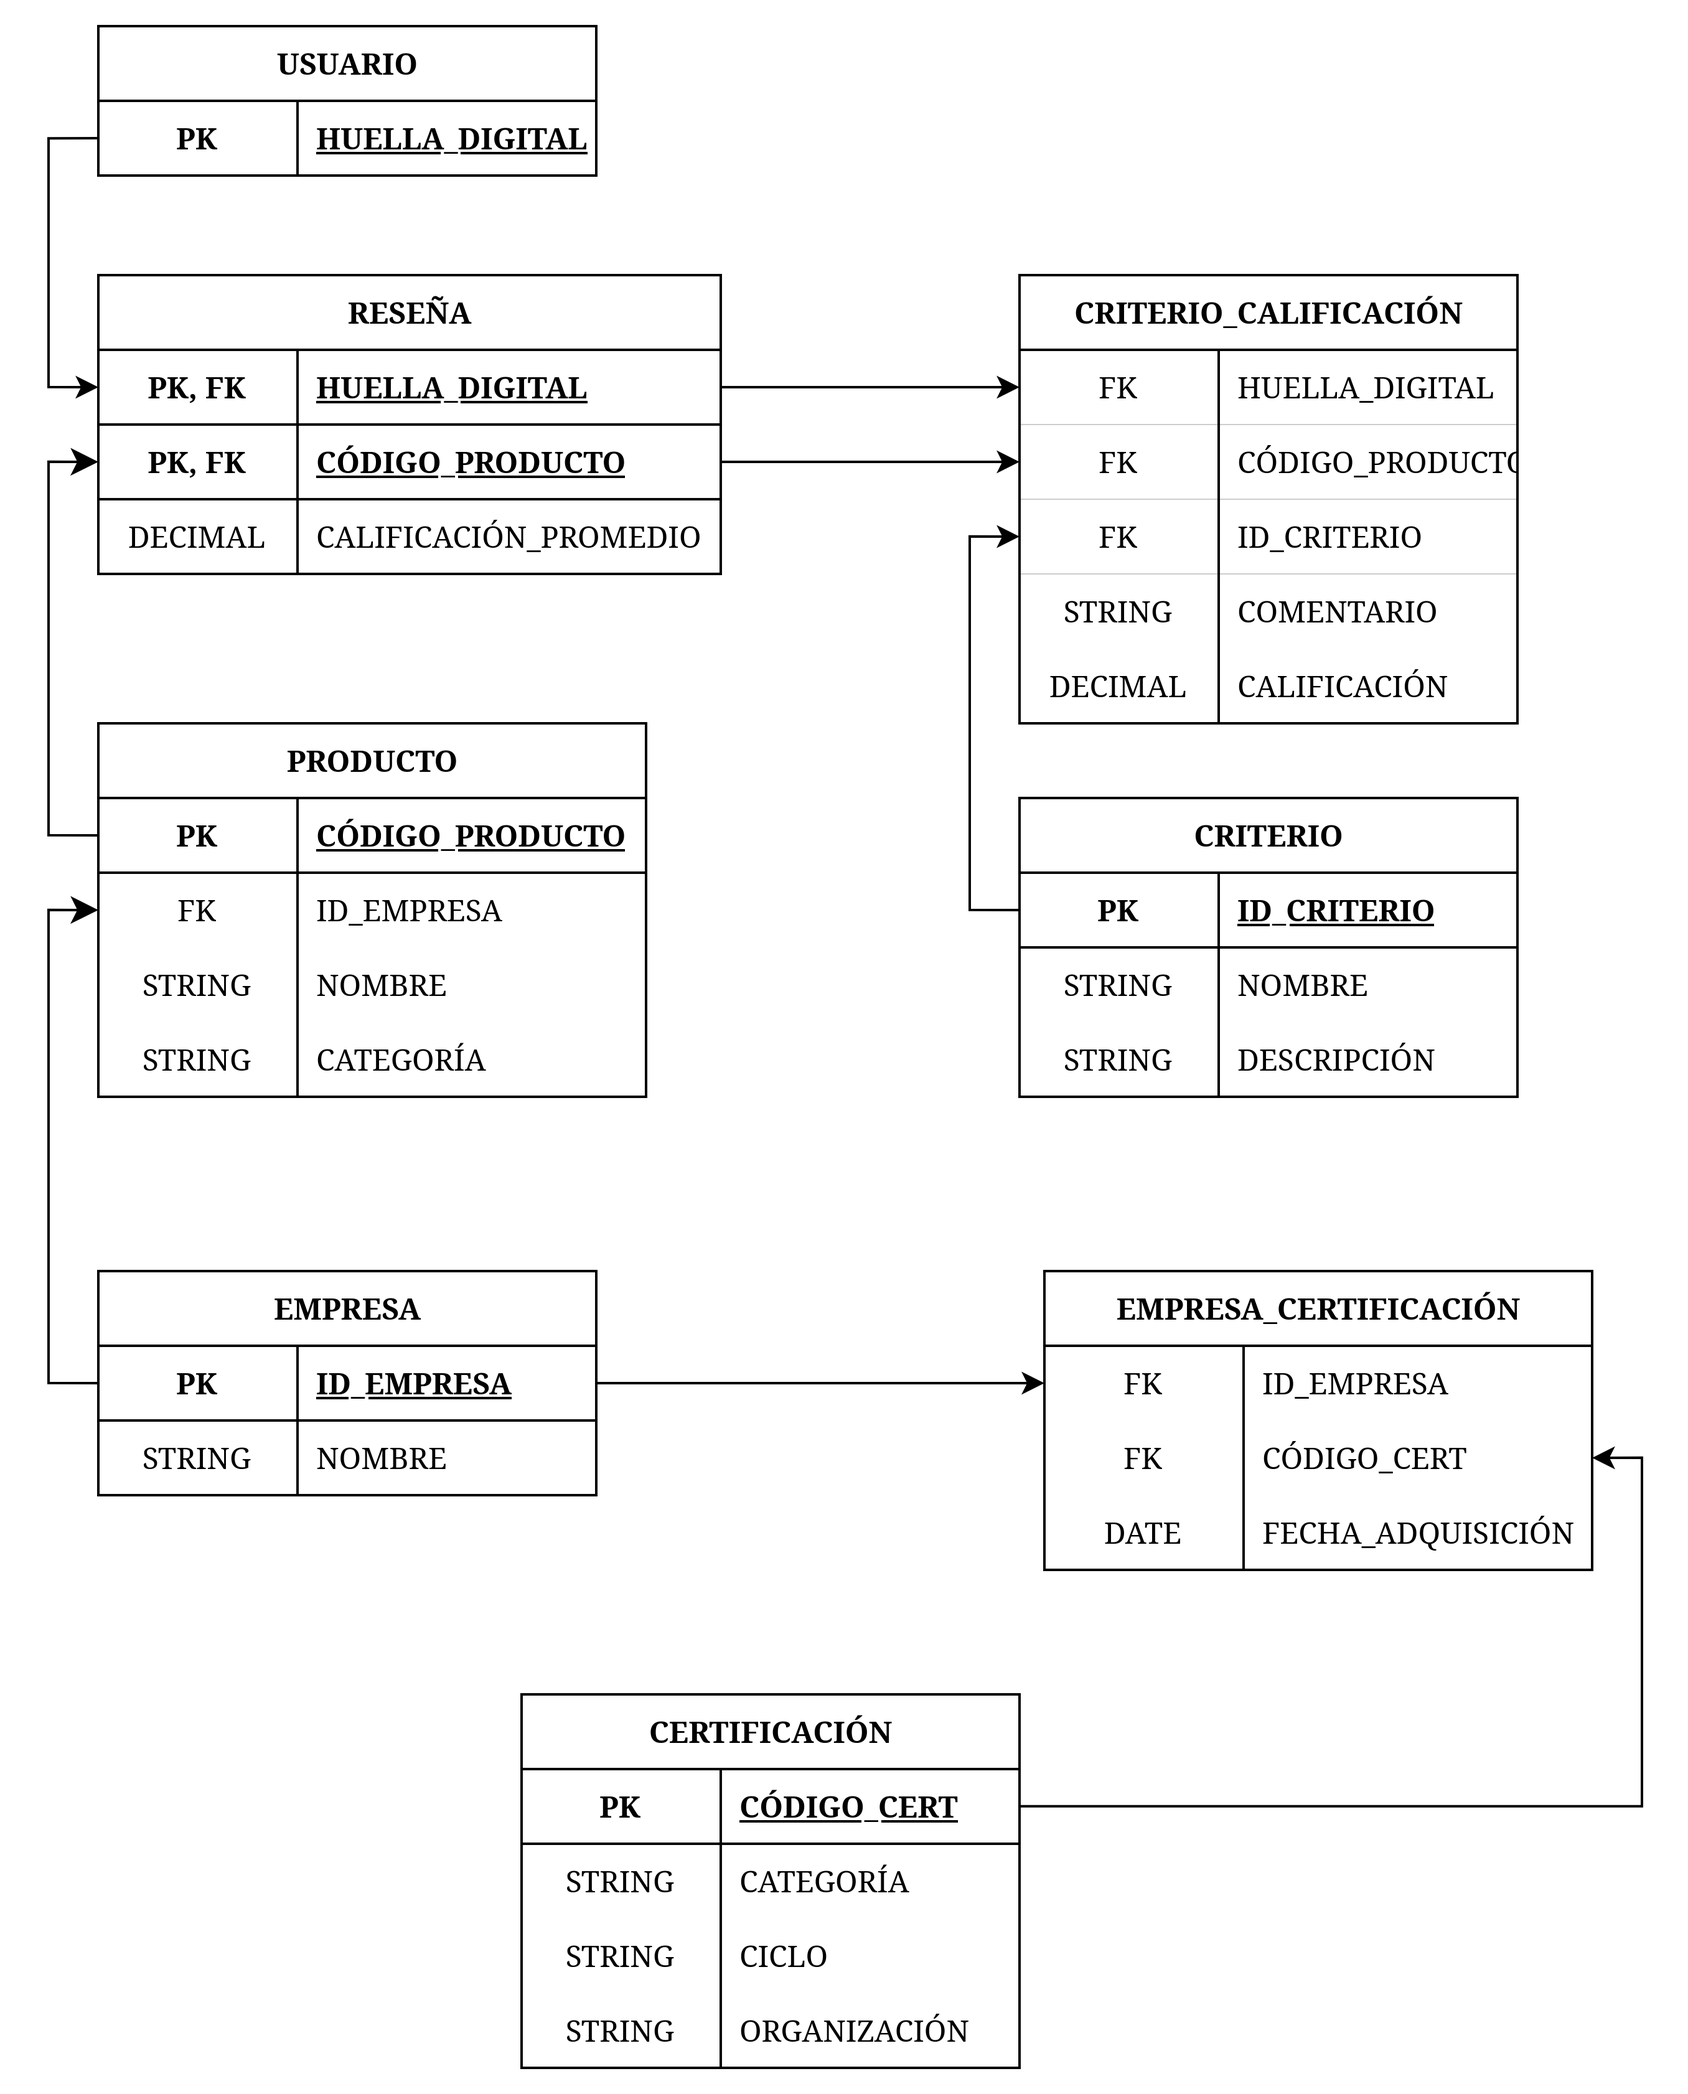
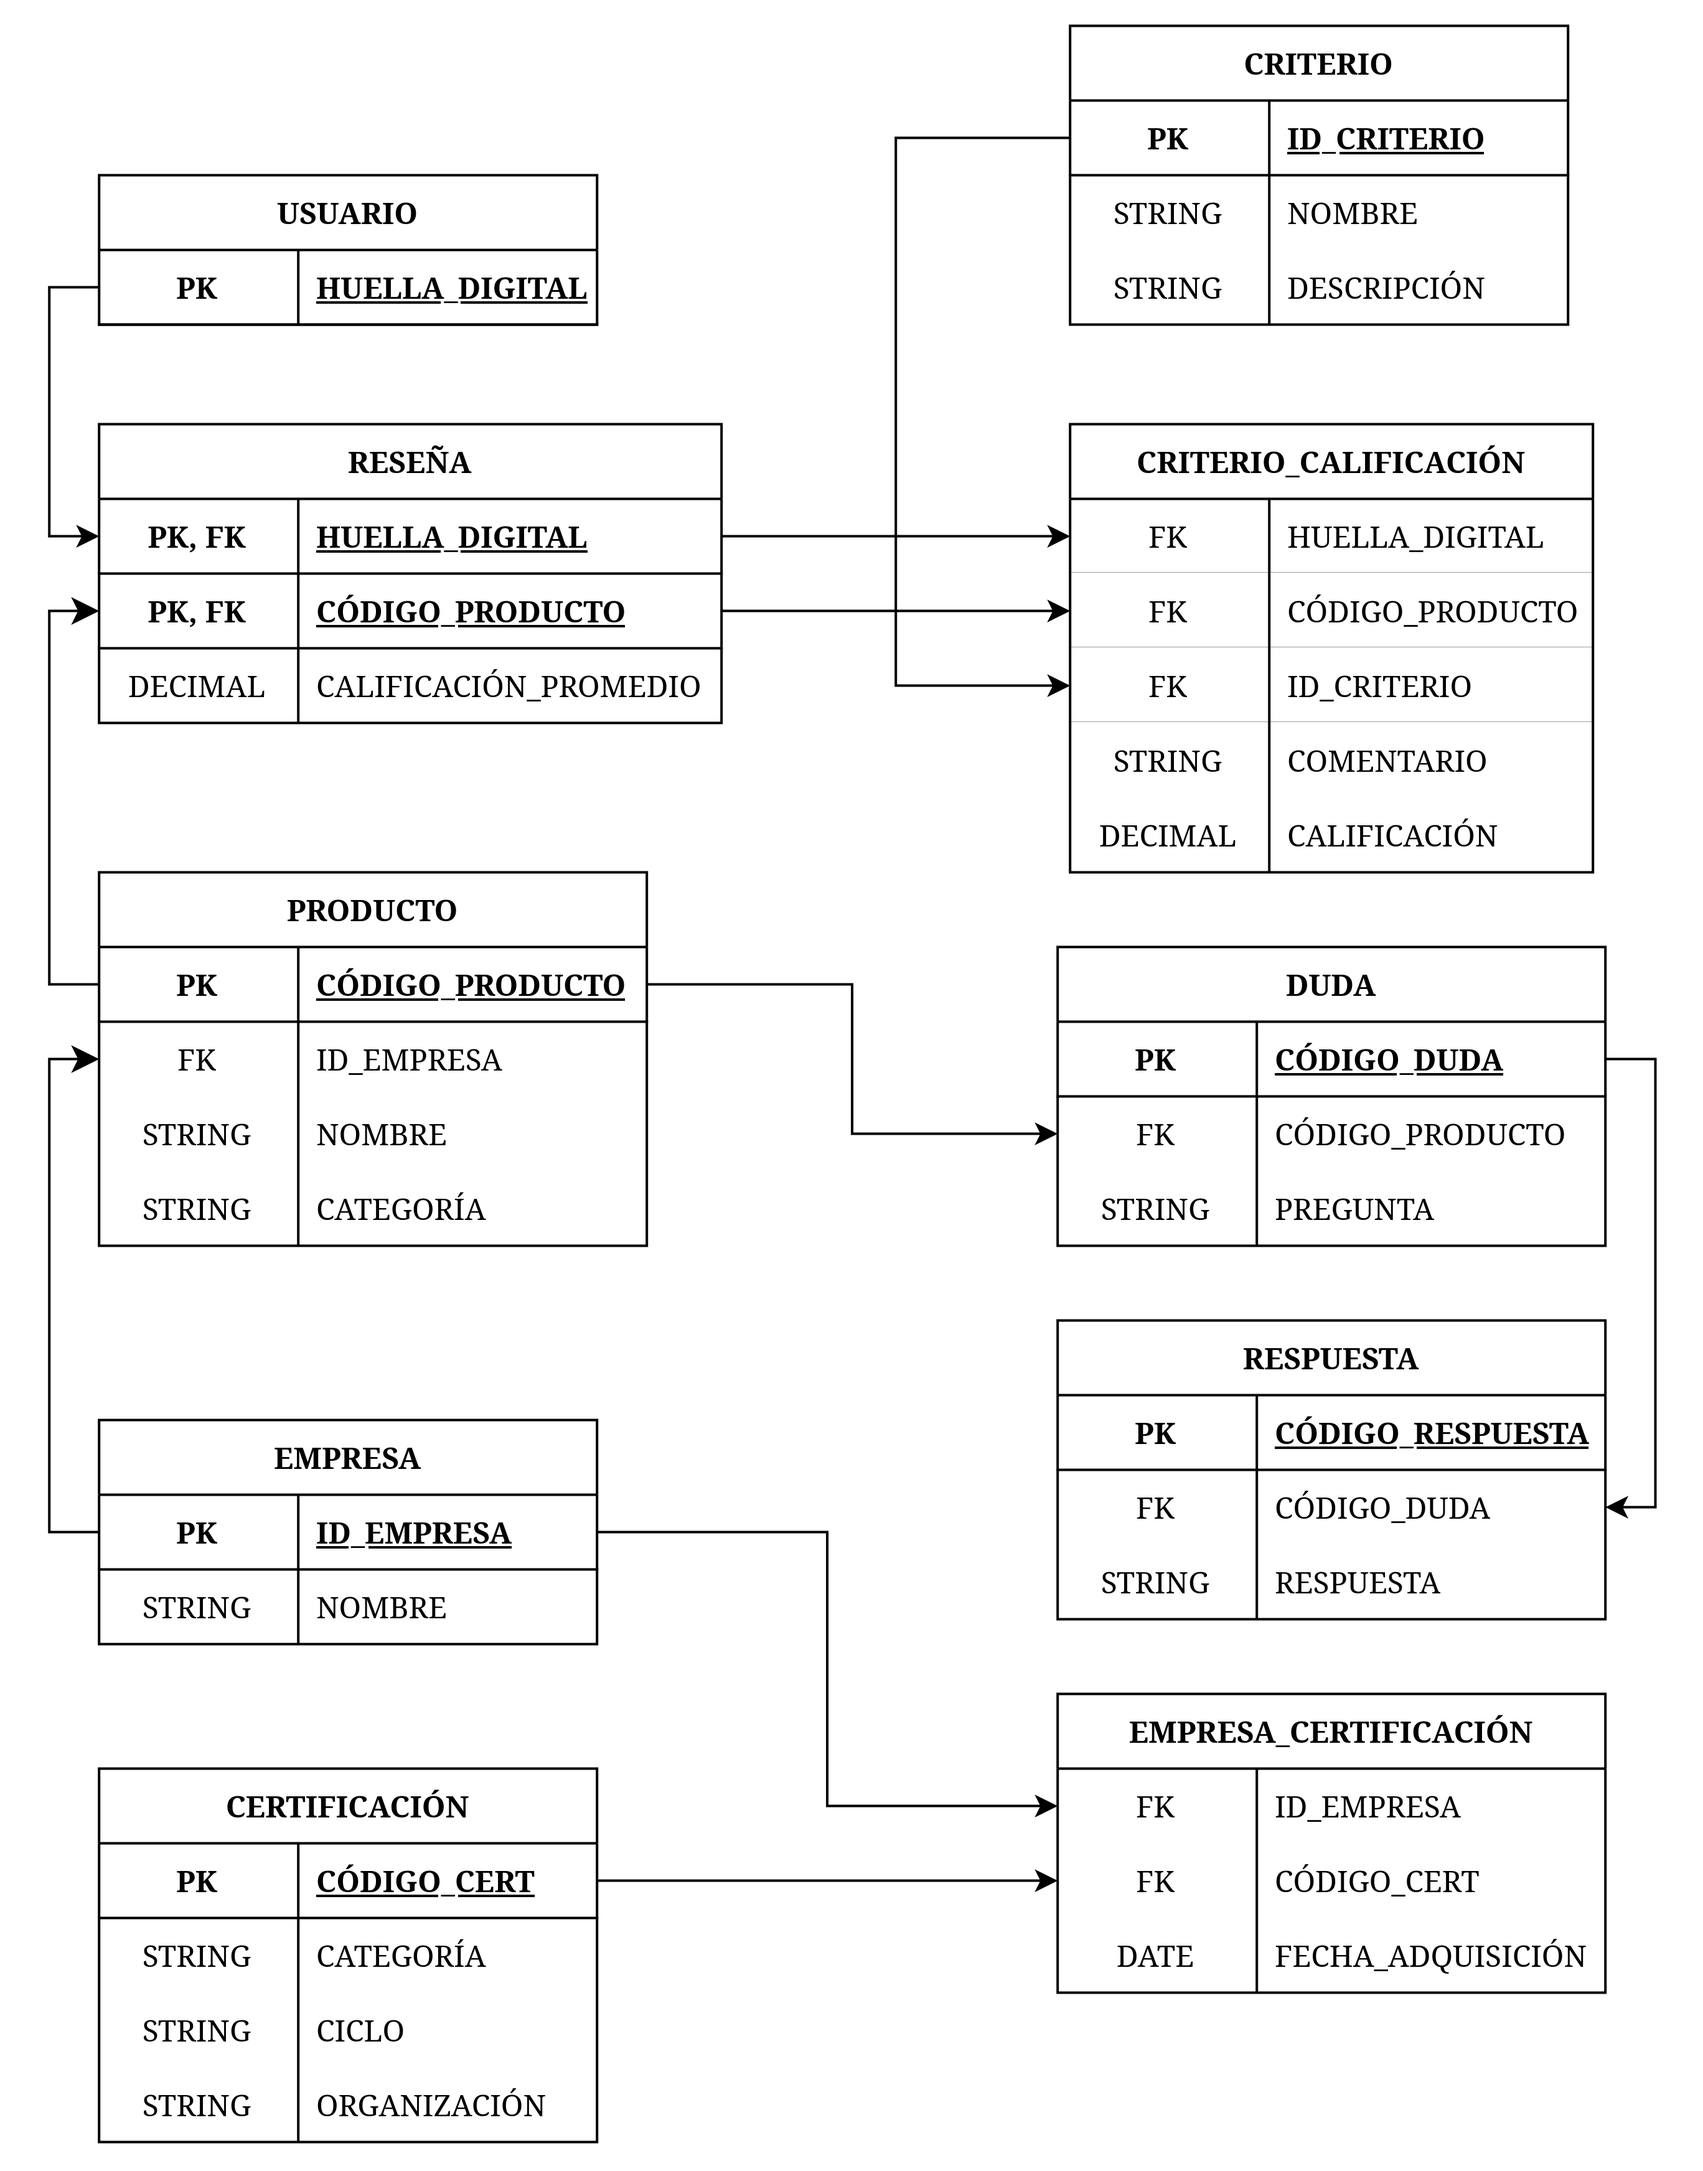
revision lunes

diff --git a/secciones/introduccion.tex b/secciones/introduccion.tex
@@ -1,19 +1,37 @@
 \section{Introducción}
 
-El consumismo ha definido a la sociedad actual desde finales de la segunda
-guerra mundial \parencite[p.~160]{gorostiza2025}. En este conexto, las
-necesidades básicas de la población estaban completamente cubiertas; sin
-embargo, se seguía priorizando el crecimiento económico por lo que se manipulaba
-a los consumidores mediante campañas de marketing masivas con el fin de crear
-incesantemente nuevas necesidades \parencite[p.~160]{gorostiza2025}. En la
-actualidad, esto se mantiene exactamente igual; continúan las campañas de
-marketing que hacen creer al consumidor que necesita algo —es justo ahí donde
-entra la obsolescencia programada con el fin de propagar el mismo ciclo de
-consumismo. Esta investigación muestra cómo se ha cambiado el comportamiento de
-la sociedad debido a los distintos avances tecnólogicos, así como de distintas
-catástrofes humanas, como el COVID-19, mostrando la vulnerabilidad del ser
-humano y su fácil manipulación al momento de tomar desiciones.
+El consumismo ha caracterizado a la sociedad desde finales de la Segunda
+Guerra Mundial. En ese contexto, las necesidades básicas de la población ya
+estaban cubiertas; sin embargo, se continuó priorizando el crecimiento
+económico, para lo cual se recurrió a campañas de marketing masivas que
+manipulaban a los consumidores y generaban de forma constante nuevas
+necesidades \parencite[p.~160]{gorostiza2025}. Hoy en día esta dinámica
+persiste: las campañas siguen haciendo creer al consumidor que necesita
+determinados productos, y es ahí donde interviene la obsolescencia programada,
+que perpetúa el mismo ciclo de consumo. Esta investigación analiza cómo ha
+cambiado el comportamiento de la sociedad a raíz de los avances tecnológicos y
+de crisis globales como el COVID-19, las cuales evidencian la vulnerabilidad del
+ser humano y la facilidad con que puede ser manipulado al tomar decisiones.
 
-Por todo lo anterior, la presente investigación busca informar, así como
-respaldar la idea de lo que la aplicación propuesta `TREEBAR' busca cambiar en
-el consumidor, tanto en sus hábitos de consumo como en su forma de pensar.
+Con base en lo anterior, la presente investigación busca informar y respaldar el
+propósito de la aplicación ``TreeBar'', que pretende transformar tanto los
+hábitos de consumo como la forma de pensar del consumidor. TreeBar centraliza la
+información de los productos que el usuario desea comprar y, además, hace
+visibles los procesos de producción y administrativos de las empresas: cómo y
+dónde fabrican sus productos y qué impacto tienen sus decisiones en el ámbito
+sociopolítico. De este modo, al conocer las decisiones que toma cada empresa en
+el mercado, el usuario podrá saber realmente qué tipo de negocio está apoyando
+con su compra.
+
+Asimismo, la aplicación ofrecerá opiniones auténticas de compradores reales.
+Cada producto contará con su propio apartado de reseñas, dedicado
+exclusivamente a experiencias de uso real y cotidiano. Además, quienes deseen
+adquirir un producto podrán formular preguntas sobre aspectos que solo se
+aprecian con el uso normal, las cuales serán respondidas por quienes ya hayan
+escrito una reseña.
+
+Otra funcionalidad práctica será la recomendación de lugares donde reparar
+productos, como smartphones o laptops, de modo que el usuario que aprecie su
+dispositivo pueda repararlo en establecimientos respaldados por los comentarios
+de personas que ya han acudido a ellos. Todo ello refuerza lo expuesto a lo
+largo de la investigación y da sentido a TreeBar.

diff --git a/diseño/cu-04.tex b/diseño/cu-04.tex
@@ -1,0 +1,68 @@
+\subsubsection{CU-04: Hacer Preguntas sobre un Producto}
+Este caso de uso describe el proceso mediante el cual un usuario podrá
+formular preguntas sobre un producto específico, con el objetivo de resolver
+dudas que solo se aprecian con el uso real y cotidiano del mismo antes de
+realizar una compra.
+
+\begin{table}[H]
+\centering
+\begin{tabular}{p{3.5cm} p{10cm} p{1cm}}\toprule \textbf{Caso de Uso} &
+\textit{Hacer Preguntas sobre un Producto} & \textit{04} \\
+
+\midrule
+\textbf{Actores}       & Usuario             \\[6pt]
+\textbf{Tipo}          & Primario            \\[6pt]
+\textbf{Precondición}  & El usuario debe haber
+escaneado previamente un producto o accedido a su página de información.  \\[6pt]
+\textbf{Postcondición} & El sistema publica la pregunta en el apartado de
+preguntas del producto y notifica a los usuarios que han reseñado dicho
+producto.  \\[6pt]
+
+\midrule
+\multicolumn{3}{l}{\textbf{Propósito}} \\*[2pt]
+\multicolumn{3}{p{14.5cm}}{Permitir que el usuario resuelva dudas específicas
+sobre un producto a partir de la experiencia de otros compradores.} \\[6pt]
+
+\midrule
+\multicolumn{3}{l}{\textbf{Resumen}} \\*[2pt]
+\multicolumn{3}{p{14.5cm}}{El usuario, al consultar la información de un
+producto, puede acceder al apartado de dudas y redactar una nueva consulta
+sobre funcionalidades que no fueron mencionadas en el apartado de experiencias o
+de información técnica del producto. El usuario debera ingresar nuevamente a la 
+página del producto para verificar que su pregunta ha sido respondida.} \\[6pt]
+\bottomrule
+\end{tabular}
+\end{table}
+
+\begin{table}[H]
+\centering
+\begin{tabular}{p{15.5cm}}\toprule \textbf{Descripción} \\
+\midrule
+\textbf{Flujo Principal} \\[2pt]
+\begin{enumerate}
+\item El usuario selecciona el apartado \textit{Dudas}.
+\item El sistema muestra las preguntas existentes del producto junto con sus
+      respuestas.
+\item El usuario selecciona la opción \textit{Hacer una pregunta}.
+\item El sistema muestra un campo de texto para redactar la pregunta.
+\item El usuario escribe su pregunta y selecciona \textit{Publicar}.
+\item El sistema valida que la pregunta cumpla con las reglas de contenido y
+      longitud permitidas.
+\item El sistema publica la pregunta en el apartado del producto.
+\end{enumerate} \\
+\midrule
+\textbf{Flujo Alterno} \\[2pt]
+\begin{enumerate}
+\item[6a.] Si el usuario intenta publicar una pregunta vacía, el sistema
+    muestra un mensaje indicando que el campo es obligatorio.
+\item[7a.] Si la pregunta excede la longitud máxima permitida, el sistema
+    muestra un mensaje indicando el límite de caracteres.
+\item[7b.] Si la pregunta contiene contenido inapropiado u ofensivo, el
+    sistema la rechaza y muestra un mensaje explicando el motivo.
+\item[8a.] Si no hay conexión a internet, el sistema muestra un mensaje de error
+    indicando que se requiere conexión para publicar la pregunta.
+\end{enumerate}
+\\
+\bottomrule
+\end{tabular}
+\end{table}

diff --git a/diseño/cu-05.tex b/diseño/cu-05.tex
@@ -1,0 +1,67 @@
+\subsubsection{CU-05: Responder Preguntas de Otros Usuarios}
+Este caso de uso describe el proceso mediante el cual un usuario que ya ha
+reseñado un producto podrá responder las preguntas formuladas por otros
+usuarios.
+
+\begin{table}[H]
+\centering
+\begin{tabular}{p{3.5cm} p{10cm} p{1cm}}\toprule \textbf{Caso de Uso} &
+\textit{Responder Preguntas de Otros Usuarios} & \textit{05} \\
+
+\midrule
+\textbf{Actores}       & Usuario             \\[6pt]
+\textbf{Tipo}          & Primario            \\[6pt]
+\textbf{Precondición}  & El usuario debe haber
+escaneado previamente un producto o accedido a su página de información. \\[6pt]
+\textbf{Postcondición} & El sistema publica la respuesta junto a la pregunta
+correspondiente. \\[6pt]
+
+\midrule
+\multicolumn{3}{l}{\textbf{Propósito}} \\*[2pt]
+\multicolumn{3}{p{14.5cm}}{Permitir que los usuarios con experiencia real con un
+producto resuelvan las dudas de quienes desean adquirirlo.} \\[6pt]
+
+\midrule
+\multicolumn{3}{l}{\textbf{Resumen}} \\*[2pt]
+\multicolumn{3}{p{14.5cm}}{El usuario puede consultar las preguntas pendientes
+desde el apartado correspondiente del producto. Al seleccionar una pregunta,
+puede redactar una respuesta basada en su experiencia.} \\[6pt]
+\bottomrule
+\end{tabular}
+\end{table}
+
+\begin{table}[H]
+\centering
+\begin{tabular}{p{15.5cm}}\toprule \textbf{Descripción} \\
+\midrule
+\textbf{Flujo Principal} \\[2pt]
+\begin{enumerate}
+\item El sistema muestra la lista de preguntas pendientes de respuesta.
+\item El usuario selecciona una pregunta.
+\item El sistema muestra el detalle de la pregunta y un campo de texto para
+      redactar la respuesta.
+\item El usuario escribe su respuesta y selecciona \textit{Publicar}.
+\item El sistema valida que la respuesta cumpla con las reglas de contenido y
+      longitud permitidas.
+\item El sistema publica la respuesta junto a la pregunta correspondiente.
+\end{enumerate} \\
+\midrule
+\textbf{Flujo Alterno} \\[2pt]
+\begin{enumerate}
+\item[2a.] Si no existen preguntas pendientes, el sistema muestra un mensaje
+    informativo indicando que aún no hay preguntas por responder.
+\item[3a.] Si la pregunta fue eliminada o ya no está disponible, el sistema
+    muestra un mensaje informativo y regresa a la lista de preguntas.
+\item[5a.] Si el usuario intenta publicar una respuesta vacía, el sistema
+    muestra un mensaje indicando que el campo es obligatorio.
+\item[6a.] Si la respuesta excede la longitud máxima permitida, el sistema
+    muestra un mensaje indicando el límite de caracteres.
+\item[6b.] Si la respuesta contiene contenido inapropiado u ofensivo, el
+    sistema la rechaza y muestra un mensaje explicando el motivo.
+\item[7a.] Si no hay conexión a internet, el sistema muestra un mensaje de error
+    indicando que se requiere conexión para publicar la respuesta.
+\end{enumerate}
+\\
+\bottomrule
+\end{tabular}
+\end{table}

diff --git a/secciones/resumen.tex b/secciones/resumen.tex
@@ -1,0 +1,24 @@
+\section*{Resumen}
+
+\noindent Mientras la sociedad permanece atrapada en el ciclo del consumismo, del que
+parece no haber salida, y las empresas continúan fomentándolo, surge una
+pregunta: ¿cómo puede una aplicación móvil de escaneo de códigos de barras
+contribuir a reducir la asimetría de información en la compra de productos
+electrónicos y fomentar un consumo más informado y sostenible? Responderla es
+importante para entender cómo se comporta la sociedad cuando dispone de
+herramientas que le permiten tomar decisiones informadas y que, además, reducen
+el sesgo informativo generado por las campañas de marketing de las empresas. La
+creación de la aplicación ``TreeBar'' se respalda en una encuesta aplicada a más
+de 200 personas mayores de edad, cuyo objetivo no fue solo evaluar la viabilidad
+de la aplicación, sino también comprender cómo se comporta la sociedad actual en
+el mundo de las compras. Esto es relevante porque conocer cómo toman sus
+decisiones los compradores permite diseñar correctamente una herramienta que
+busca transformar los hábitos de consumo de los usuarios de laptops y
+smartphones. Los resultados fueron valiosos para el desarrollo del proyecto: el
+80\% de los encuestados manifestó interés en una aplicación de esta naturaleza,
+la cual no solo muestra información concreta de cada producto, sino que además
+permite consultar reseñas de usuarios reales, formular preguntas para que las
+respondan quienes ya adquirieron el dispositivo y, finalmente, encontrar lugares
+donde repararlo.
+
+\noindent\textbf{Palabras clave:} Sociedad, empresas, consumismo, informado, concreta.

diff --git a/main.tex b/main.tex
@@ -60,11 +60,16 @@
     {\large \today}
 \end{titlepage}
 
+% ---------------- RESUMEN ----------------
+\input{secciones/resumen}
+\newpage
+
 % ---------------- ÍNDICE ----------------
 \tableofcontents
 \newpage
 
 % ---------------- SECCIONES ----------------
+
 \input{secciones/introduccion}
 \newpage
 

diff --git a/diseño/casos-de-uso.tex b/diseño/casos-de-uso.tex
@@ -8,3 +8,9 @@
 
 \input{diseño/cu-03.tex}
 \newpage
+
+\input{diseño/cu-04.tex}
+\newpage
+
+\input{diseño/cu-05.tex}
+\newpage
